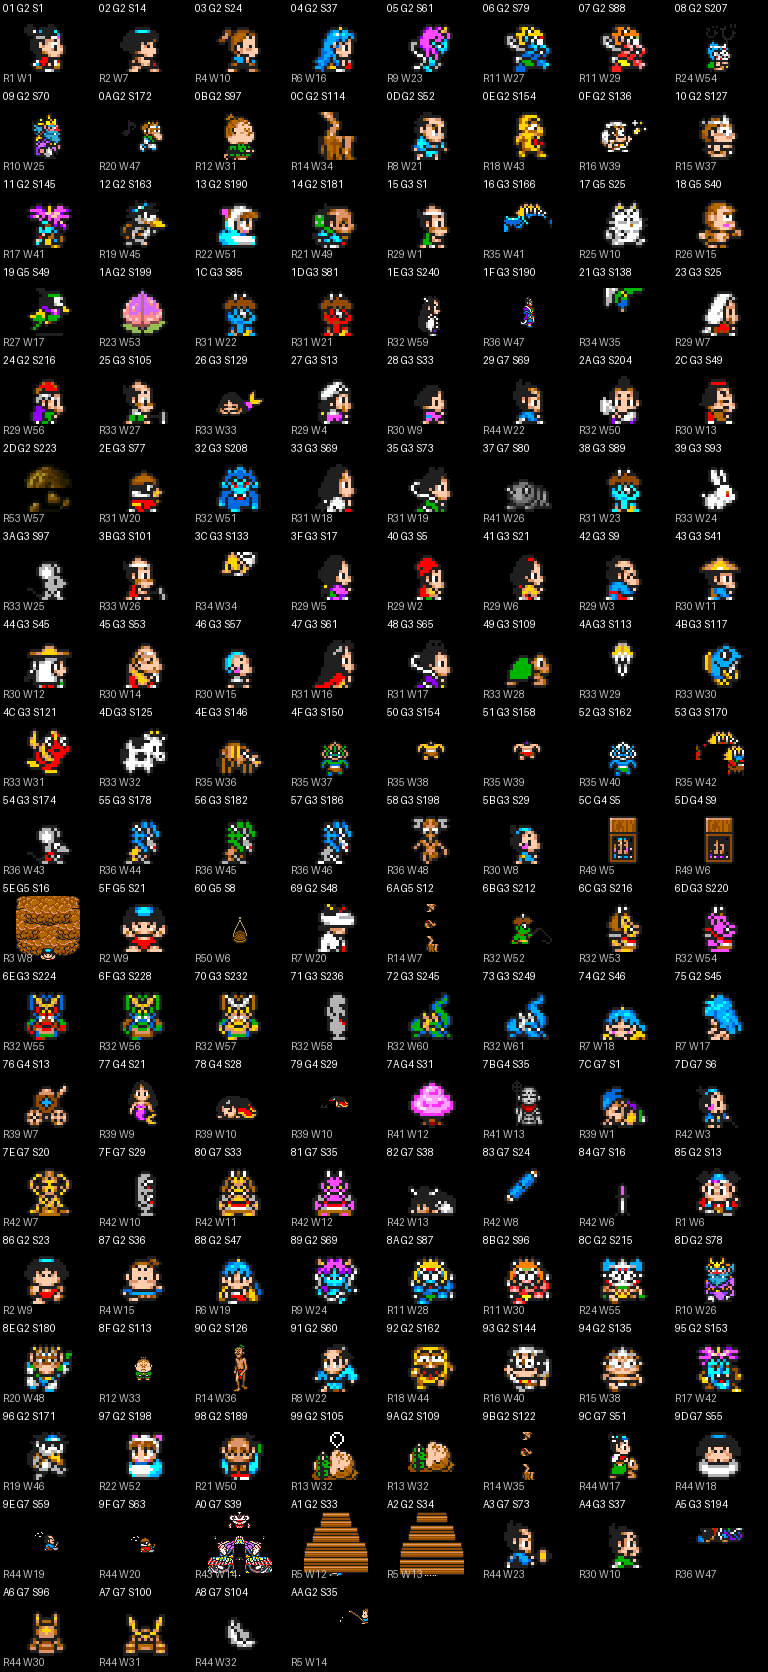
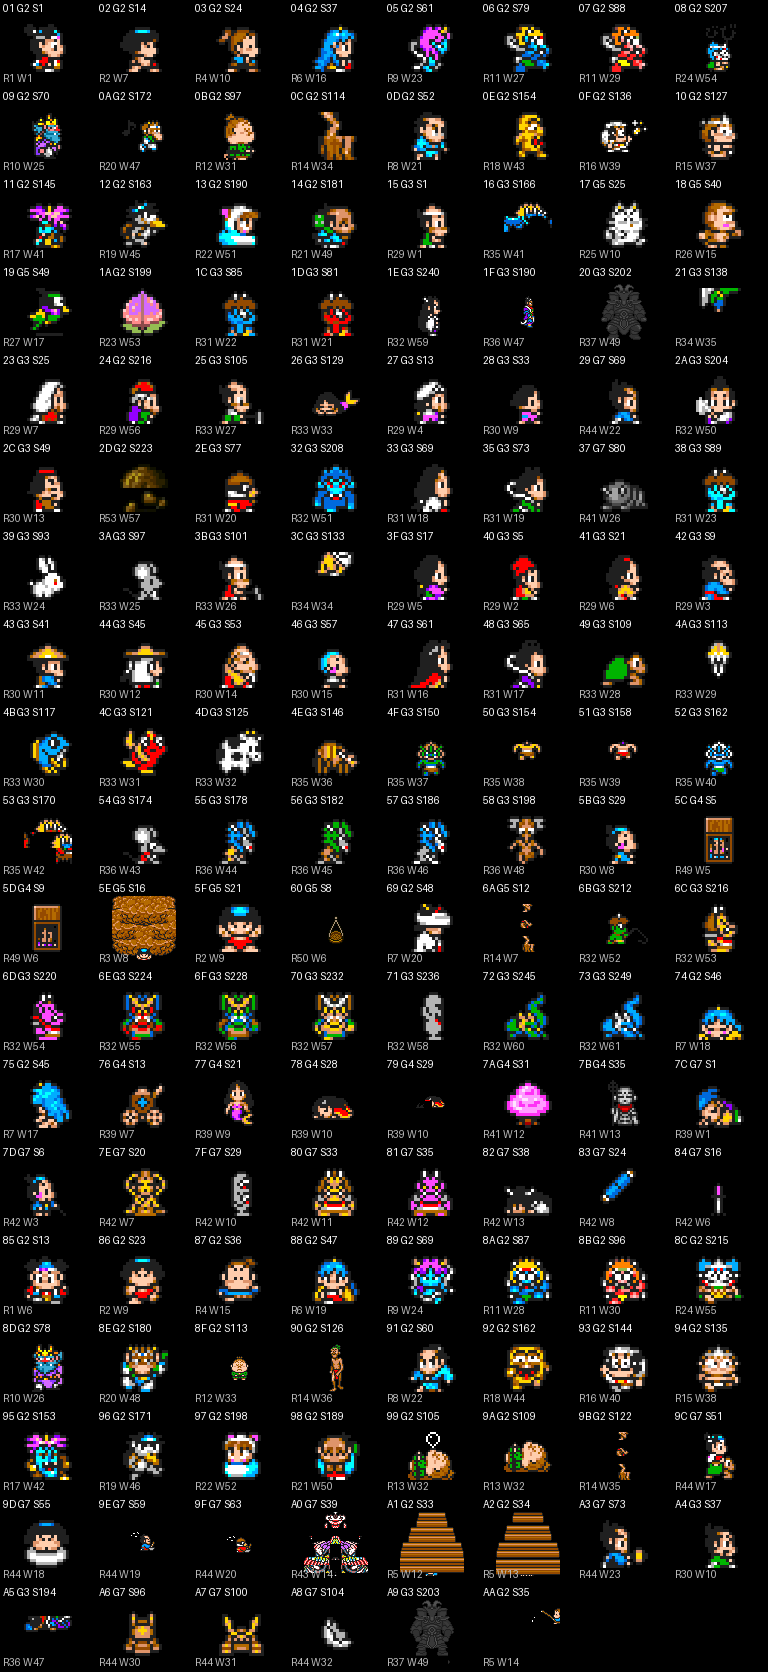
Decode graphics reader dispatch4

diff --git a/tools/python/render_normal_map_family_from_setup.py b/tools/python/render_normal_map_family_from_setup.py
@@ -174,6 +174,27 @@ def decode_graphics_resource(rom: bytes, desc: dict, operand: int) -> bytes:
             desc["source_addr"],
             desc["output_size"],
         )
+    if dispatch == 4:
+        # Engine reader 80:B92C checks the per-byte output index in $1124.
+        # When bit 4 and bit 0 are both set it returns zero without advancing
+        # the underlying 80:BD28 stream; otherwise it reads the next byte
+        # through the same source reader as dispatch 0.
+        output_size = desc["output_size"]
+        source_size = sum(
+            1 for i in range(output_size)
+            if not ((i & 0x10) and (i & 0x01))
+        )
+        source = decode_ring_lzss(
+            rom,
+            desc["source_bank"],
+            desc["source_addr"],
+            source_size,
+        )
+        it = iter(source)
+        return bytes(
+            0 if ((i & 0x10) and (i & 0x01)) else next(it)
+            for i in range(output_size)
+        )
     raise ValueError(
         f"graphics operand {operand:#x}: unsupported reader dispatch {dispatch}"
     )

diff --git a/docs/graphics/STATIC_DISPLAY_ACTOR_CATALOG_20260930.md b/docs/graphics/STATIC_DISPLAY_ACTOR_CATALOG_20260930.md
@@ -9,9 +9,9 @@ At selector 0xAB the byte pattern changes into a different table structure, so b
 - table records: 171 including selector 0x00
 - selector 0x00: reserved/empty
 - nonzero selectors: 170
-- directly reconstructable with the proven context-5 pipeline: 160
-- unique graphics signatures among those 160: 148
-- unresolved: 10
+- directly reconstructable with the proven context-5 pipeline: 162
+- unique graphics signatures among those 162: 150
+- unresolved: 8
 
 The 160 reconstructed entries include player/party-looking actors, village NPCs, animals,
 monsters, large field actors, effects, and object-like graphics. Therefore this is a
@@ -19,11 +19,12 @@ monsters, large field actors, effects, and object-like graphics. Therefore this 
 
 ## Unresolved selectors
 
-- 0x20 and 0xA9 share CHR resource 0x25, whose graphics reader uses dispatch 4.
-  The current decoder intentionally does not implement that reader yet.
-- 0x61..0x68 do not resolve through the same B2EE CHR-window indexing used by the proven
-  actor families. Treat them as a separate display/resource subtype until their caller
-  path is understood.
+- 0x20 and 0xA9 were recovered after decoding graphics-reader dispatch 4. Both reconstruct
+  as large gray armored/warrior-like field actors.
+- 0x61..0x68 remain unresolved. They are group 0 with CHR-window selector 0; B25E therefore
+  resolves the window through transient low-WRAM $01FE/$01FF rather than a ROM B2EE table.
+  Treat them as a separate runtime-window display/resource subtype until their caller path
+  and scratch-window initialization are understood.
 
 ## Validation basis
 
@@ -45,8 +46,6 @@ names to unknown entries.
 
 ## Next static targets
 
-1. Decode graphics reader dispatch 4 to recover selectors 0x20 and 0xA9.
-2. Trace the special window/resource path used by 0x61..0x68.
-3. Expand each selector from the representative first frame into complete animation-state
-   families, while preserving duplicate selectors as aliases rather than duplicate art.
-4. Bind selector ids to event/map actors separately using runtime/event evidence.
+1. Trace the special low-WRAM window/resource path used by 0x61..0x68.
+2. Continue expanding selector animation families while preserving duplicate selectors as aliases.
+3. Bind selector ids to event/map actors separately using runtime/event evidence.

diff --git a/docs/graphics/GRAPHICS_READER_DISPATCH4_20260930.md b/docs/graphics/GRAPHICS_READER_DISPATCH4_20260930.md
@@ -1,0 +1,53 @@
+# Graphics reader dispatch 4 — 2026-09-30
+
+## Scope
+
+Selectors 0x20 and 0xA9 use context-5 CHR resource 0x25. Its graphics descriptor is:
+
+- descriptor C3:0798
+- raw: 00 00 80 04 DF C8 D9 25
+- output size: 0x0480 bytes
+- source: D9:C8DF
+- reader kind: 5
+- reader dispatch index: 4
+
+## Engine behavior
+
+The reader jump table at 80:B910 routes dispatch index 4 to 80:B92C.
+
+80:B92C checks the per-output-byte counter $1124:
+
+- if bit 4 is clear, read the next byte through the normal 80:BD28 source reader
+- if bit 4 is set but bit 0 is clear, read the next byte normally
+- if bit 4 and bit 0 are both set, return 0x00 without advancing the source reader
+
+Equivalent reconstruction rule:
+
+```
+for output_index in range(output_size):
+    if (output_index & 0x10) and (output_index & 0x01):
+        output_byte = 0
+    else:
+        output_byte = next(normal_BD28_stream)
+```
+
+Therefore dispatch 4 is not a separate compression codec. It is the normal dispatch-0
+BD28/LZSS byte stream plus deterministic zero insertion.
+
+Within each 32-byte 4bpp tile-sized block, the zeroed positions are odd bytes in the second
+16-byte half. This is consistent with leaving one subset of SNES bitplanes empty.
+
+## Result
+
+After adding dispatch 4 to the common graphics decoder:
+
+- selector 0x20 reconstructs successfully
+- selector 0xA9 reconstructs successfully
+- both render as coherent large gray armored/warrior-like field actors
+- static selector coverage rises from 160 to 162 selectors
+- unique reconstructed graphics signatures rise from 148 to 150
+- unresolved selectors are reduced to 0x61..0x68 only
+
+The dispatch-4 branch was added to
+`tools/python/render_normal_map_family_from_setup.py`, so the behavior is available to
+other graphics reconstruction tools that reuse the common decoder.

diff --git a/docs/graphics/STATIC_ACTOR_ANIMATION_FAMILIES_20260930.md b/docs/graphics/STATIC_ACTOR_ANIMATION_FAMILIES_20260930.md
@@ -5,10 +5,10 @@ frame per selector to animation-family extraction.
 
 ## Coverage
 
-Among the 148 unique reconstructable graphics signatures:
+Among the 150 unique reconstructable graphics signatures:
 
-- 121 have a nearby contiguous four-state / two-frame family.
-- 103 of those are in sprite groups 2 or 3, where runtime village/player tracing has
+- 123 have a nearby contiguous four-state / two-frame family.
+- 105 of those are in sprite groups 2 or 3, where runtime village/player tracing has
   directly confirmed the state order as right, down, left, up.
 - 18 are in groups 4, 5, or 7. Their four-state / two-frame structure is static fact,
   but the semantic direction order remains unverified.
@@ -21,8 +21,8 @@ because many actors have an idle or transition state before their normal directi
 Observed offsets from selector base state to the detected 4x2 family:
 
 - +0: 93
-- +1: 16
-- +2: 2
+- +1: 17
+- +2: 3
 - +3: 2
 - +4: 5
 - +5: 3
@@ -63,7 +63,7 @@ semantic character names should not be inferred from the graphics alone.
 - `graphics/static_character_reconstruction/static_special_animation_atlas_20260930.png`
 - `tools/python/build_static_actor_animation_catalog.py`
 
-The directional atlas renders all eight frames for each detected four-state/two-frame family.
+The directional atlas renders all eight frames for each detected four-state/two-frame family. Selectors 0x20 and 0xA9 are now included after graphics-reader dispatch 4 was decoded.
 The special atlas renders the complete base-state sequence for each non-directional signature.
 
 ## Interpretation
